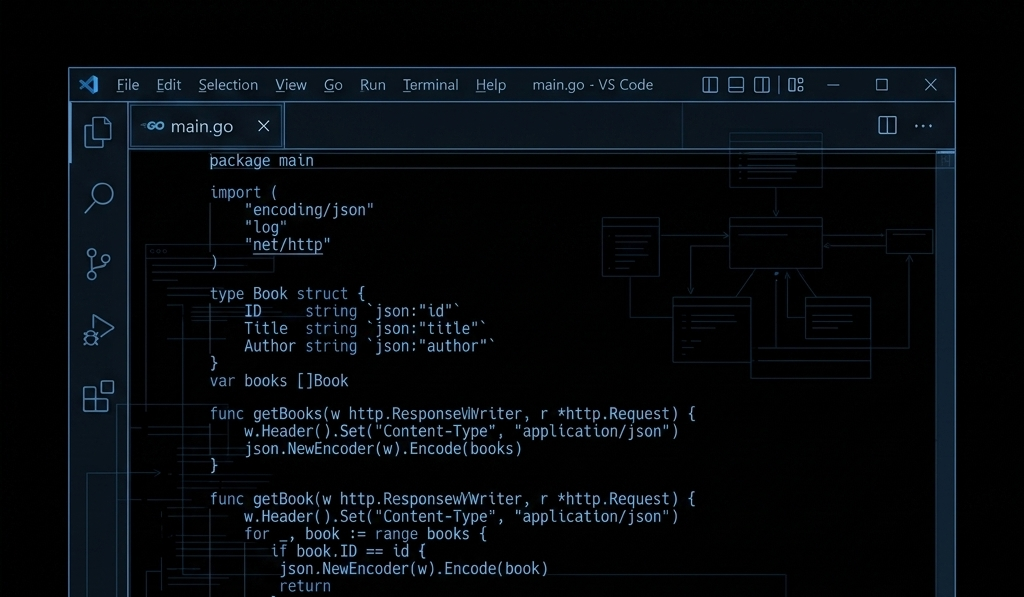
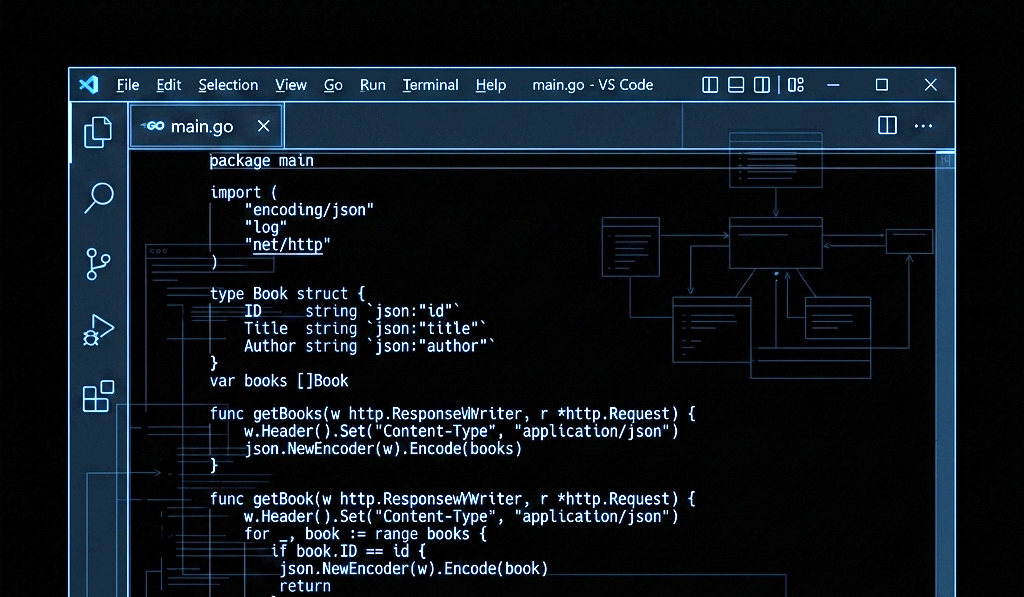
update

diff --git a/modules/homepage.tsx b/modules/homepage.tsx
@@ -42,7 +42,6 @@ export default function HomePage() {
                     </span>
                     <span className="text-neutral-300">,</span>
                     <span className="font-medium">I am</span>
-                    {/* "Deff" underline with a subtle accent instead of browser default */}
                     <span
                         title="Call me Deff"
                         className="relative cursor-default"
@@ -52,7 +51,6 @@ export default function HomePage() {
                         </span>
                     </span>
                     <span className="font-medium">Farera</span>
-                    {/* Mobile line-break word */}
                     <span className="md:hidden font-medium">Software Engineer.</span>
                 </h1>
 
@@ -88,7 +86,7 @@ export default function HomePage() {
                 {/* Bento grid */}
                 <div className="grid grid-cols-1 md:grid-cols-3 gap-4 auto-rows-[260px] xs:auto-rows-[280px] md:auto-rows-[340px]">
 
-                    {/* Frontend */}
+                    {/* 01 - Frontend */}
                     <div className="
       md:col-span-2 relative group overflow-hidden
       rounded-2xl border border-white/[0.07] bg-white/[0.03] backdrop-blur-md
@@ -126,47 +124,9 @@ export default function HomePage() {
                         </div>
                     </div>
 
-                    {/* Backend */}
+                    {/* 02 - Product UI/UX Design */}
                     <div className="
       relative group overflow-hidden
-      rounded-2xl border border-white/[0.07] bg-white/[0.14] backdrop-blur-md
-      p-5 sm:p-6 flex flex-col justify-between
-      transition-all duration-500
-      hover:border-white/[0.12] hover:bg-white/[0.05]
-      hover:shadow-[0_0_40px_-12px_rgba(255,255,255,0.07)]
-    ">
-                        <div className="pointer-events-none absolute inset-x-0 top-0 h-px bg-gradient-to-r from-transparent via-white/20 to-transparent" />
-
-                        <div className="relative z-10">
-                            <span className="text-[10px] font-semibold uppercase tracking-[0.18em] text-neutral-500">02 — Architecture</span>
-                            <h3 className="text-base font-medium text-white mt-2 tracking-tight">Backend & Systems</h3>
-                            <p className="text-neutral-300 text-sm mt-2 leading-relaxed">
-                                Scalable RESTful APIs, multi-threaded automation scripts, automated CRON-based tasks, and SQL database design.
-                            </p>
-                            <div className="flex gap-2 mt-4 flex-wrap">
-                                {["Go", "Python", "SQL", "Express.js"].map(tag => (
-                                    <span key={tag} className="text-[11px] bg-white/[0.05] text-neutral-400 px-2.5 py-1 rounded-lg border border-white/[0.07]">
-                                        {tag}
-                                    </span>
-                                ))}
-                            </div>
-                        </div>
-
-                        <div className="absolute bottom-0 left-3/4 md:left-1/2 -translate-x-1/2 w-[70%] sm:w-[85%] pointer-events-none transition-transform duration-700 ease-out group-hover:-translate-y-1">
-                            <Image
-                                className="w-full h-auto object-contain rounded-t-md"
-                                src="/be.png"
-                                width={800}
-                                height={800}
-                                alt="Backend"
-                                priority
-                            />
-                        </div>
-                    </div>
-
-                    {/* UI/UX */}
-                    <div className="
-      md:col-span-3 relative group overflow-hidden
       rounded-2xl border border-white/[0.07] bg-white/[0.03] backdrop-blur-md
       p-5 sm:p-6 flex flex-col justify-between
       transition-all duration-500
@@ -175,10 +135,10 @@ export default function HomePage() {
     ">
                         <div className="pointer-events-none absolute inset-x-0 top-0 h-px bg-gradient-to-r from-transparent via-white/20 to-transparent" />
 
-                        <div className="relative z-10">
-                            <span className="text-[10px] font-semibold uppercase tracking-[0.18em] text-neutral-500">03 — Experience</span>
+                        <div className="relative z-10 max-w-[75%] sm:max-w-full">
+                            <span className="text-[10px] font-semibold uppercase tracking-[0.18em] text-neutral-500">02 — Experience</span>
                             <h3 className="text-base font-medium text-white mt-2 tracking-tight">Product UI/UX Design</h3>
-                            <p className="text-neutral-300 text-sm max-w-[70%] sm:max-w-md mt-2 leading-relaxed">
+                            <p className="text-neutral-300 text-sm mt-2 leading-relaxed">
                                 User-centric UI/UX improvements, wireframes, and prototypes structured to enhance discoverability and user flow.
                             </p>
                             <div className="flex gap-2 mt-4 flex-wrap">
@@ -190,17 +150,58 @@ export default function HomePage() {
                             </div>
                         </div>
 
-                        <div className="absolute bottom-[-10%] right-[-10%] w-[65%] xs:w-[55%] md:top-0 md:right-10 md:bottom-0 md:left-auto md:w-[40%] pointer-events-none transition-transform duration-700 ease-out group-hover:scale-[1.02] opacity-60 md:opacity-100">
+                        {/* Positioned cleanly bottom-right, non-intrusive on text */}
+                        <div className="absolute -bottom-4 -right-4 w-[55%] sm:w-[50%] pointer-events-none transition-transform duration-700 ease-out group-hover:scale-[1.03] opacity-40 sm:opacity-70 md:opacity-90">
                             <Image
-                                className="w-full h-auto object-contain pt-1"
+                                className="w-full h-auto object-contain"
                                 src="/mobile2.png"
-                                width={1200}
-                                height={1200}
+                                width={500}
+                                height={500}
                                 alt="UIUX"
                                 priority
                             />
                         </div>
                     </div>
+
+                    {/* 03 - Backend & Systems */}
+                    <div className="
+      md:col-span-3 relative group overflow-hidden
+      rounded-2xl border border-white/[0.07] bg-white/[0.14] backdrop-blur-md
+      p-5 sm:p-6 flex flex-col justify-between
+      transition-all duration-500
+      hover:border-white/[0.12] hover:bg-white/[0.05]
+      hover:shadow-[0_0_40px_-12px_rgba(255,255,255,0.07)]
+    ">
+                        <div className="pointer-events-none absolute inset-x-0 top-0 h-px bg-gradient-to-r from-transparent via-white/20 to-transparent" />
+
+                        <div className="relative z-10 max-w-full md:max-w-[50%] lg:max-w-[55%]">
+                            <span className="text-[10px] font-semibold uppercase tracking-[0.18em] text-neutral-500">03 — Architecture</span>
+                            <h3 className="text-base font-medium text-white mt-2 tracking-tight">Backend &amp; Systems</h3>
+                            <p className="text-neutral-300 text-sm mt-2 leading-relaxed">
+                                Scalable RESTful APIs, multi-threaded scripts, and SQL database design. Currently expanding expertise into Linux environments, low-level system operations, and server administration.
+                            </p>
+                            <div className="flex gap-2 mt-4 flex-wrap">
+                                {["Go", "Linux", "Python", "SQL", "Express.js"].map(tag => (
+                                    <span key={tag} className="text-[11px] bg-white/[0.05] text-neutral-400 px-2.5 py-1 rounded-lg border border-white/[0.07]">
+                                        {tag}
+                                    </span>
+                                ))}
+                            </div>
+                        </div>
+
+                        {/* Anchored right side with constrained max-width */}
+                        <div className="absolute bottom-0 right-0 w-[55%] md:w-[45%] max-w-md pointer-events-none transition-transform duration-700 ease-out group-hover:scale-[1.02] opacity-50 md:opacity-100">
+                            <Image
+                                className="w-full h-auto object-contain object-right-bottom rounded-tl-xl"
+                                src="/be.png"
+                                width={800}
+                                height={800}
+                                alt="Backend"
+                                priority
+                            />
+                        </div>
+                    </div>
+
                 </div>
             </section>
 
